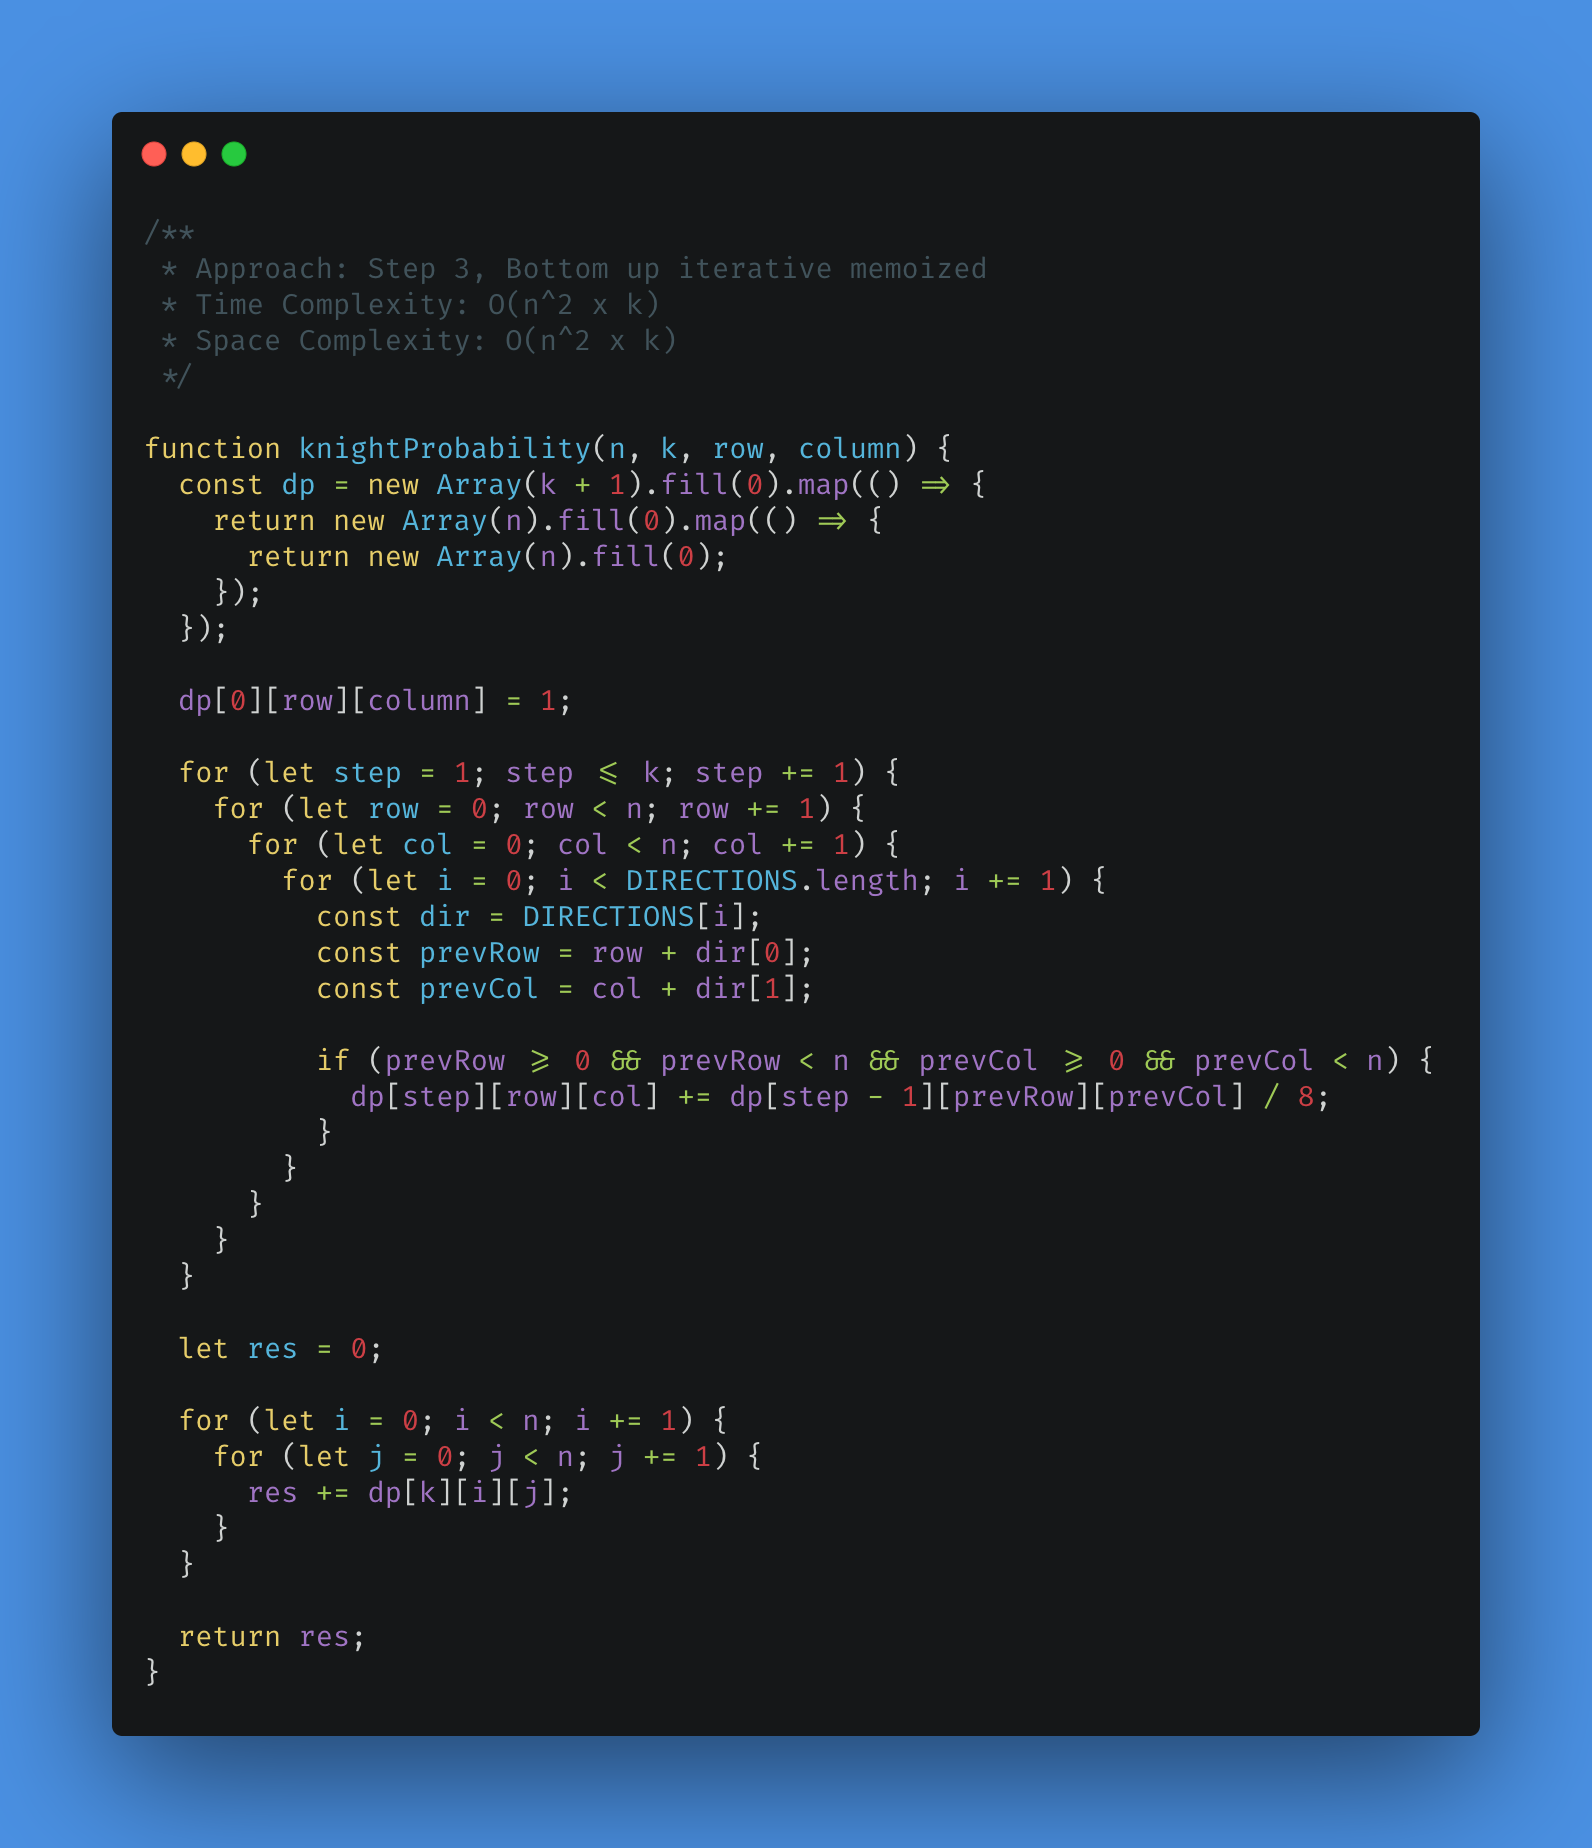
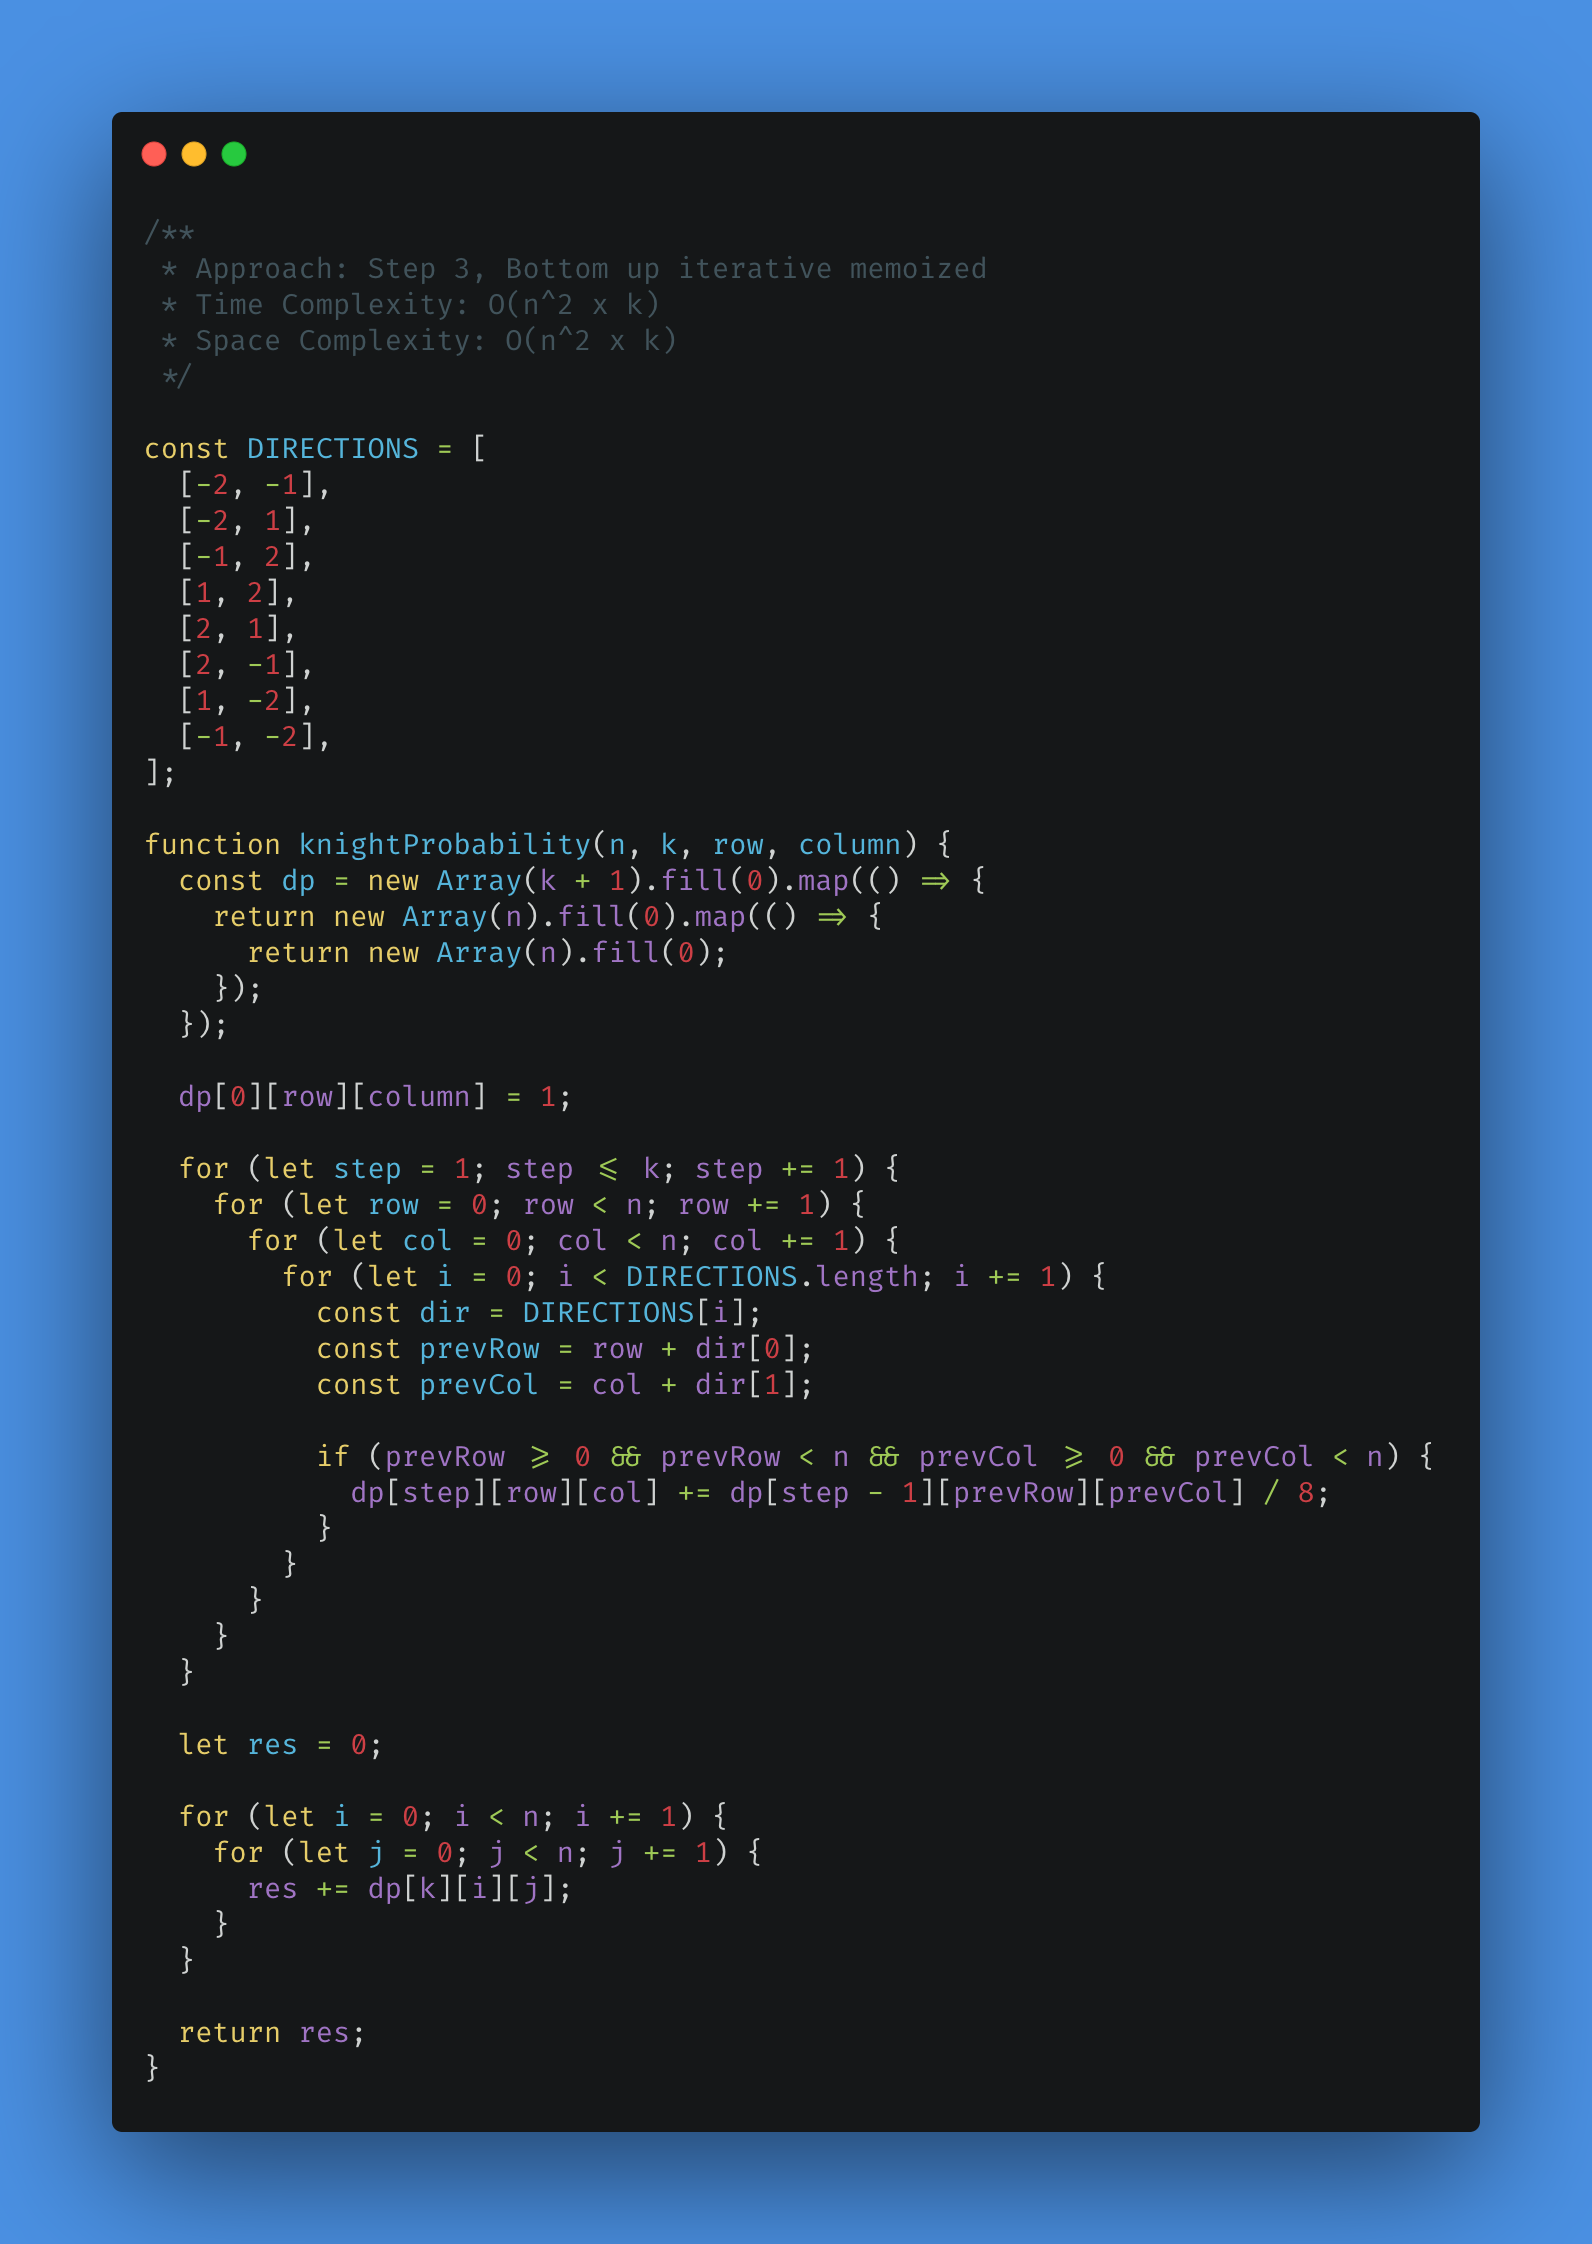
Fix carbon images & code

diff --git a/101-leetcode/034/carbon/003.js b/101-leetcode/034/carbon/003.js
@@ -4,6 +4,17 @@
  * Space Complexity: O(n^2 x k)
  */
 
+const DIRECTIONS = [
+  [-2, -1],
+  [-2, 1],
+  [-1, 2],
+  [1, 2],
+  [2, 1],
+  [2, -1],
+  [1, -2],
+  [-1, -2],
+];
+
 function knightProbability(n, k, row, column) {
   const dp = new Array(k + 1).fill(0).map(() => {
     return new Array(n).fill(0).map(() => {

diff --git a/101-leetcode/034/carbon/004.js b/101-leetcode/034/carbon/004.js
@@ -4,6 +4,17 @@
  * Space Complexity: O(n^2)
  */
 
+const DIRECTIONS = [
+  [-2, -1],
+  [-2, 1],
+  [-1, 2],
+  [1, 2],
+  [2, 1],
+  [2, -1],
+  [1, -2],
+  [-1, -2],
+];
+
 function knightProbability(n, k, row, column) {
   let prevDp = new Array(n).fill(0).map(() => {
     return new Array(n).fill(0);
